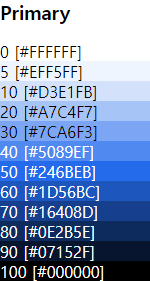
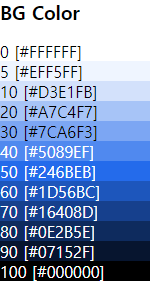
Feat. Primary Color

Changed region(s): [[0.0267, 0.0, 0.5333, 0.0854]]

diff --git a/index.html b/index.html
@@ -11,9 +11,9 @@
 <body>
     <h1>KRDS</h1>
     <section>
-        <h2>BG Color</h2>
+        <h2>Primary</h2>
         <div class="g-width-150px">
-            <h3>Primary</h3>
+            <h3>BG Color</h3>
             <div>
                 <div class="g-color-box bg-primary-0 text-primary-100">0 [#FFFFFF]</div>
                 <div class="g-color-box bg-primary-5 text-primary-100">5 [#EFF5FF]</div>
@@ -27,6 +27,23 @@
                 <div class="g-color-box bg-primary-80 text-primary-0">80 [#0E2B5E]</div>
                 <div class="g-color-box bg-primary-90 text-primary-0">90 [#07152F]</div>
                 <div class="g-color-box bg-primary-100 text-primary-0">100 [#000000]</div>
+            </div>
+        </div>
+        <div class="g-width-150px">
+            <h3>Text Color</h3>
+            <div>
+                <div class="g-color-box text-primary-0 bg-primary-100">0 [#FFFFFF]</div>
+                <div class="g-color-box text-primary-5 bg-primary-100">5 [#EFF5FF]</div>
+                <div class="g-color-box text-primary-10 bg-primary-100">10 [#D3E1FB]</div>
+                <div class="g-color-box text-primary-20 bg-primary-100">20 [#A7C4F7]</div>
+                <div class="g-color-box text-primary-30 bg-primary-100">30 [#7CA6F3]</div>
+                <div class="g-color-box text-primary-40 bg-primary-0">40 [#5089EF]</div>
+                <div class="g-color-box text-primary text-primary-50 bg-primary-0">50 [#246BEB]</div>
+                <div class="g-color-box text-primary-60 bg-primary-0">60 [#1D56BC]</div>
+                <div class="g-color-box text-primary-70 bg-primary-0">70 [#16408D]</div>
+                <div class="g-color-box text-primary-80 bg-primary-0">80 [#0E2B5E]</div>
+                <div class="g-color-box text-primary-90 bg-primary-0">90 [#07152F]</div>
+                <div class="g-color-box text-primary-100 bg-primary-0">100 [#000000]</div>
             </div>
         </div>
     </section>

diff --git a/style.css b/style.css
@@ -104,8 +104,58 @@ h6 {
     background-color: #000000;
 }
 
+/** 글자 */
+.text-inherit {
+    color: inherit;
+}
+
+.text-transparent {
+    color: transparent;
+}
+
 .text-primary-0 {
     color: #FFFFFF;
+}
+
+.text-primary-5 {
+    color: #EFF5FF;
+}
+
+.text-primary-10 {
+    color: #D3E1FB;
+}
+
+.text-primary-20 {
+    color: #A7C4F7;
+}
+
+.text-primary-30 {
+    color: #7CA6F3;
+}
+
+.text-primary-40 {
+    color: #5089EF;
+}
+
+.text-primary-50,
+.text-primary {
+    color: #246BEB;
+}
+
+.text-primary-60 {
+    color: #1D56BC;
+}
+
+.text-primary-70 {
+    color: #16408D;
+}
+
+.text-primary-80 {
+    color: #0E2B5E;
+}
+
+.text-primary-90 {
+    color: #07152F;
 }
 
 .text-primary-100 {

diff --git a/README.md b/README.md
@@ -8,6 +8,7 @@
 # 색상
 ## Primary
 ![img](./assets/color-primary-bg.png)
+![img](./assets/color-primary-text.png)
 ```
 /** 배경색 */
 
@@ -71,5 +72,63 @@
 
 .bg-primary-100 {
     background-color: #000000;
+}
+
+/** 글자 */
+.text-inherit {
+    color: inherit;
+}
+
+.text-transparent {
+    color: transparent;
+}
+
+.text-primary-0 {
+    color: #FFFFFF;
+}
+
+.text-primary-5 {
+    color: #EFF5FF;
+}
+
+.text-primary-10 {
+    color: #D3E1FB;
+}
+
+.text-primary-20 {
+    color: #A7C4F7;
+}
+
+.text-primary-30 {
+    color: #7CA6F3;
+}
+
+.text-primary-40 {
+    color: #5089EF;
+}
+
+.text-primary-50,
+.text-primary {
+    color: #246BEB;
+}
+
+.text-primary-60 {
+    color: #1D56BC;
+}
+
+.text-primary-70 {
+    color: #16408D;
+}
+
+.text-primary-80 {
+    color: #0E2B5E;
+}
+
+.text-primary-90 {
+    color: #07152F;
+}
+
+.text-primary-100 {
+    color: #000000;
 }
 ```
